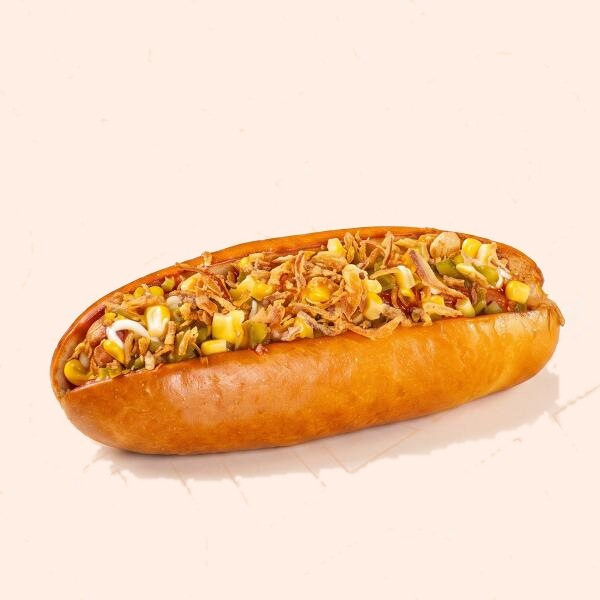
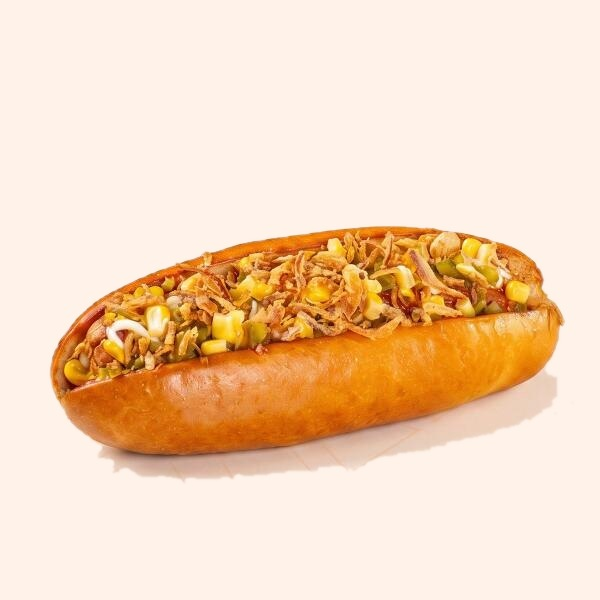
Menu images: repair tenders cup, clean backgrounds, darken blend so pattern stays behind products

diff --git a/src/pages.css b/src/pages.css
@@ -37,7 +37,7 @@
 .pcard-img { position: relative; isolation: isolate; display: grid; place-items: center; aspect-ratio: 1; border-radius: 18px; overflow: hidden; background: var(--cream); }
 /* brand wave pattern behind each product */
 .pcard-img::before, .pdialog-img::before { content: ''; position: absolute; inset: 0; z-index: -1; background: url('/brand/pattern-waves-orange.png') center / 135% auto repeat; opacity: 0.07; pointer-events: none; }
-.pcard-img img { width: 100%; height: 100%; object-fit: contain; mix-blend-mode: multiply; transition: transform 0.6s var(--ease); }
+.pcard-img img { width: 100%; height: 100%; object-fit: contain; mix-blend-mode: darken; transition: transform 0.6s var(--ease); }
 .pcard-btn:hover .pcard-img img { transform: scale(1.07) rotate(1.5deg); }
 .pcard-name { font-family: var(--font-display); text-transform: uppercase; color: var(--orange); font-size: clamp(20px, 2vw, 28px); line-height: 1.02; margin-top: 8px; }
 [dir='rtl'] .pcard-name { text-transform: none; font-weight: 700; }
@@ -52,7 +52,7 @@
 .pdialog-panel { position: relative; display: grid; grid-template-columns: 1fr 1fr; background: var(--cream); border: 4px solid var(--orange); border-radius: 32px; box-shadow: 12px 12px 0 var(--orange); max-height: 90vh; overflow: auto; }
 .pdialog-img { position: relative; isolation: isolate; background: var(--cream); display: grid; place-items: center; padding: clamp(16px, 3vw, 36px); border-radius: 28px 0 0 28px; }
 [dir='rtl'] .pdialog-img { border-radius: 0 28px 28px 0; }
-.pdialog-img img { width: 100%; height: auto; max-height: 60vh; object-fit: contain; mix-blend-mode: multiply; }
+.pdialog-img img { width: 100%; height: auto; max-height: 60vh; object-fit: contain; mix-blend-mode: darken; }
 .pdialog-info { padding: clamp(22px, 4vw, 48px); display: grid; align-content: center; gap: 14px; }
 .pdialog-name { font-family: var(--font-display); font-weight: 400; text-transform: uppercase; color: var(--orange); font-size: clamp(32px, 4.4vw, 58px); line-height: 1; }
 [dir='rtl'] .pdialog-name { text-transform: none; font-weight: 700; }
